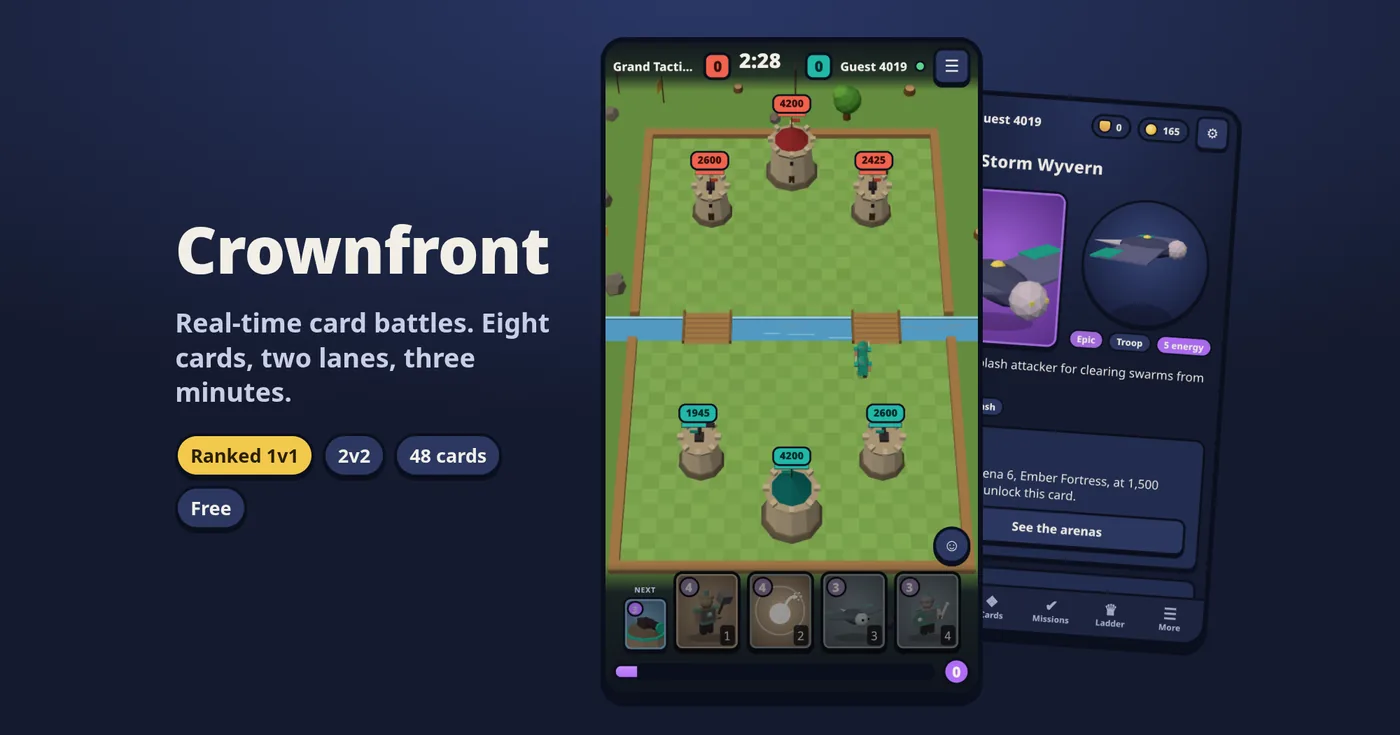
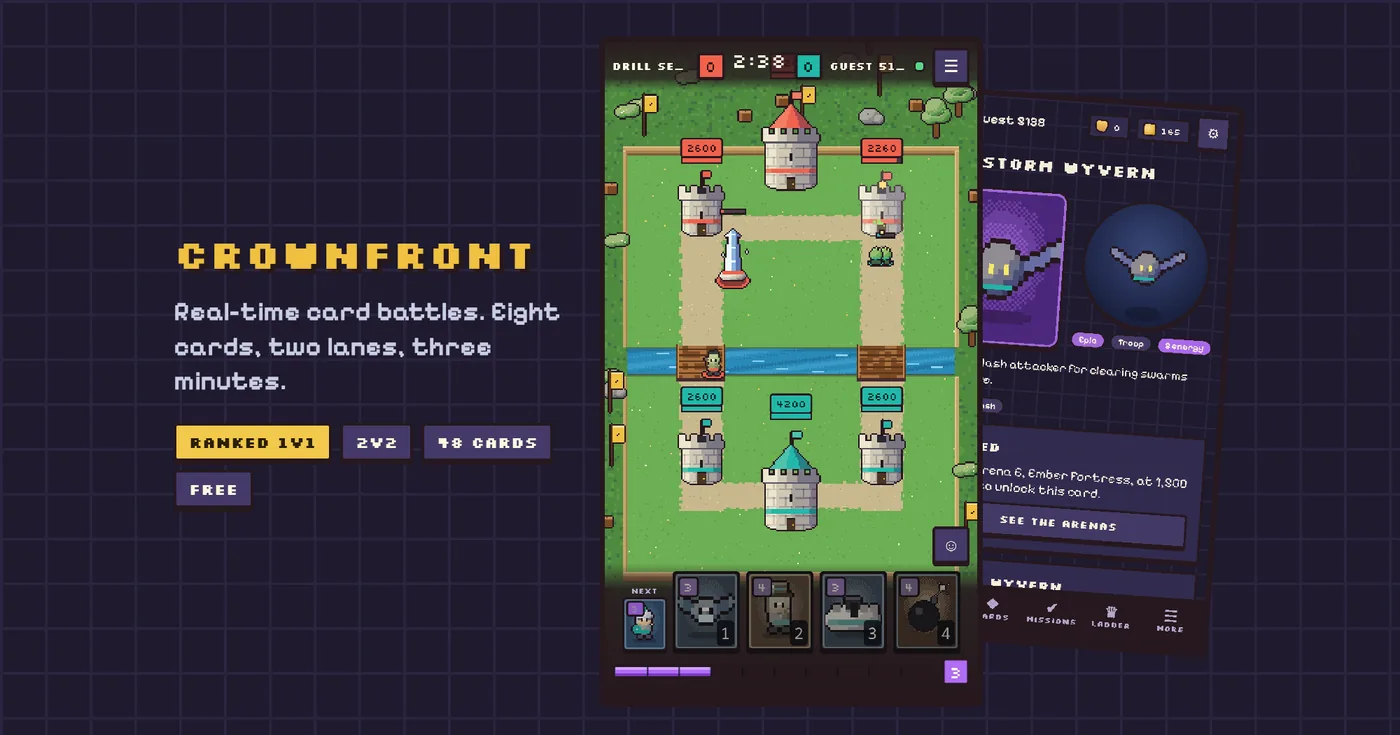
feat: Crownfront card shows the new pixel art

diff --git a/src/data/art-versions.ts b/src/data/art-versions.ts
@@ -4,7 +4,7 @@ export const ART_VERSIONS: Record<string, string> = {
   "bop.png": "85db839e13",
   "celeste.png": "fd825a9f76",
   "chess.png": "8b941f0f37",
-  "crownfront.png": "44a71c735b",
+  "crownfront.png": "b893cae0ff",
   "defenders.png": "57ad3856ee",
   "esports-manager.png": "331b495ff9",
   "fart.png": "7a5b00c9fb",
